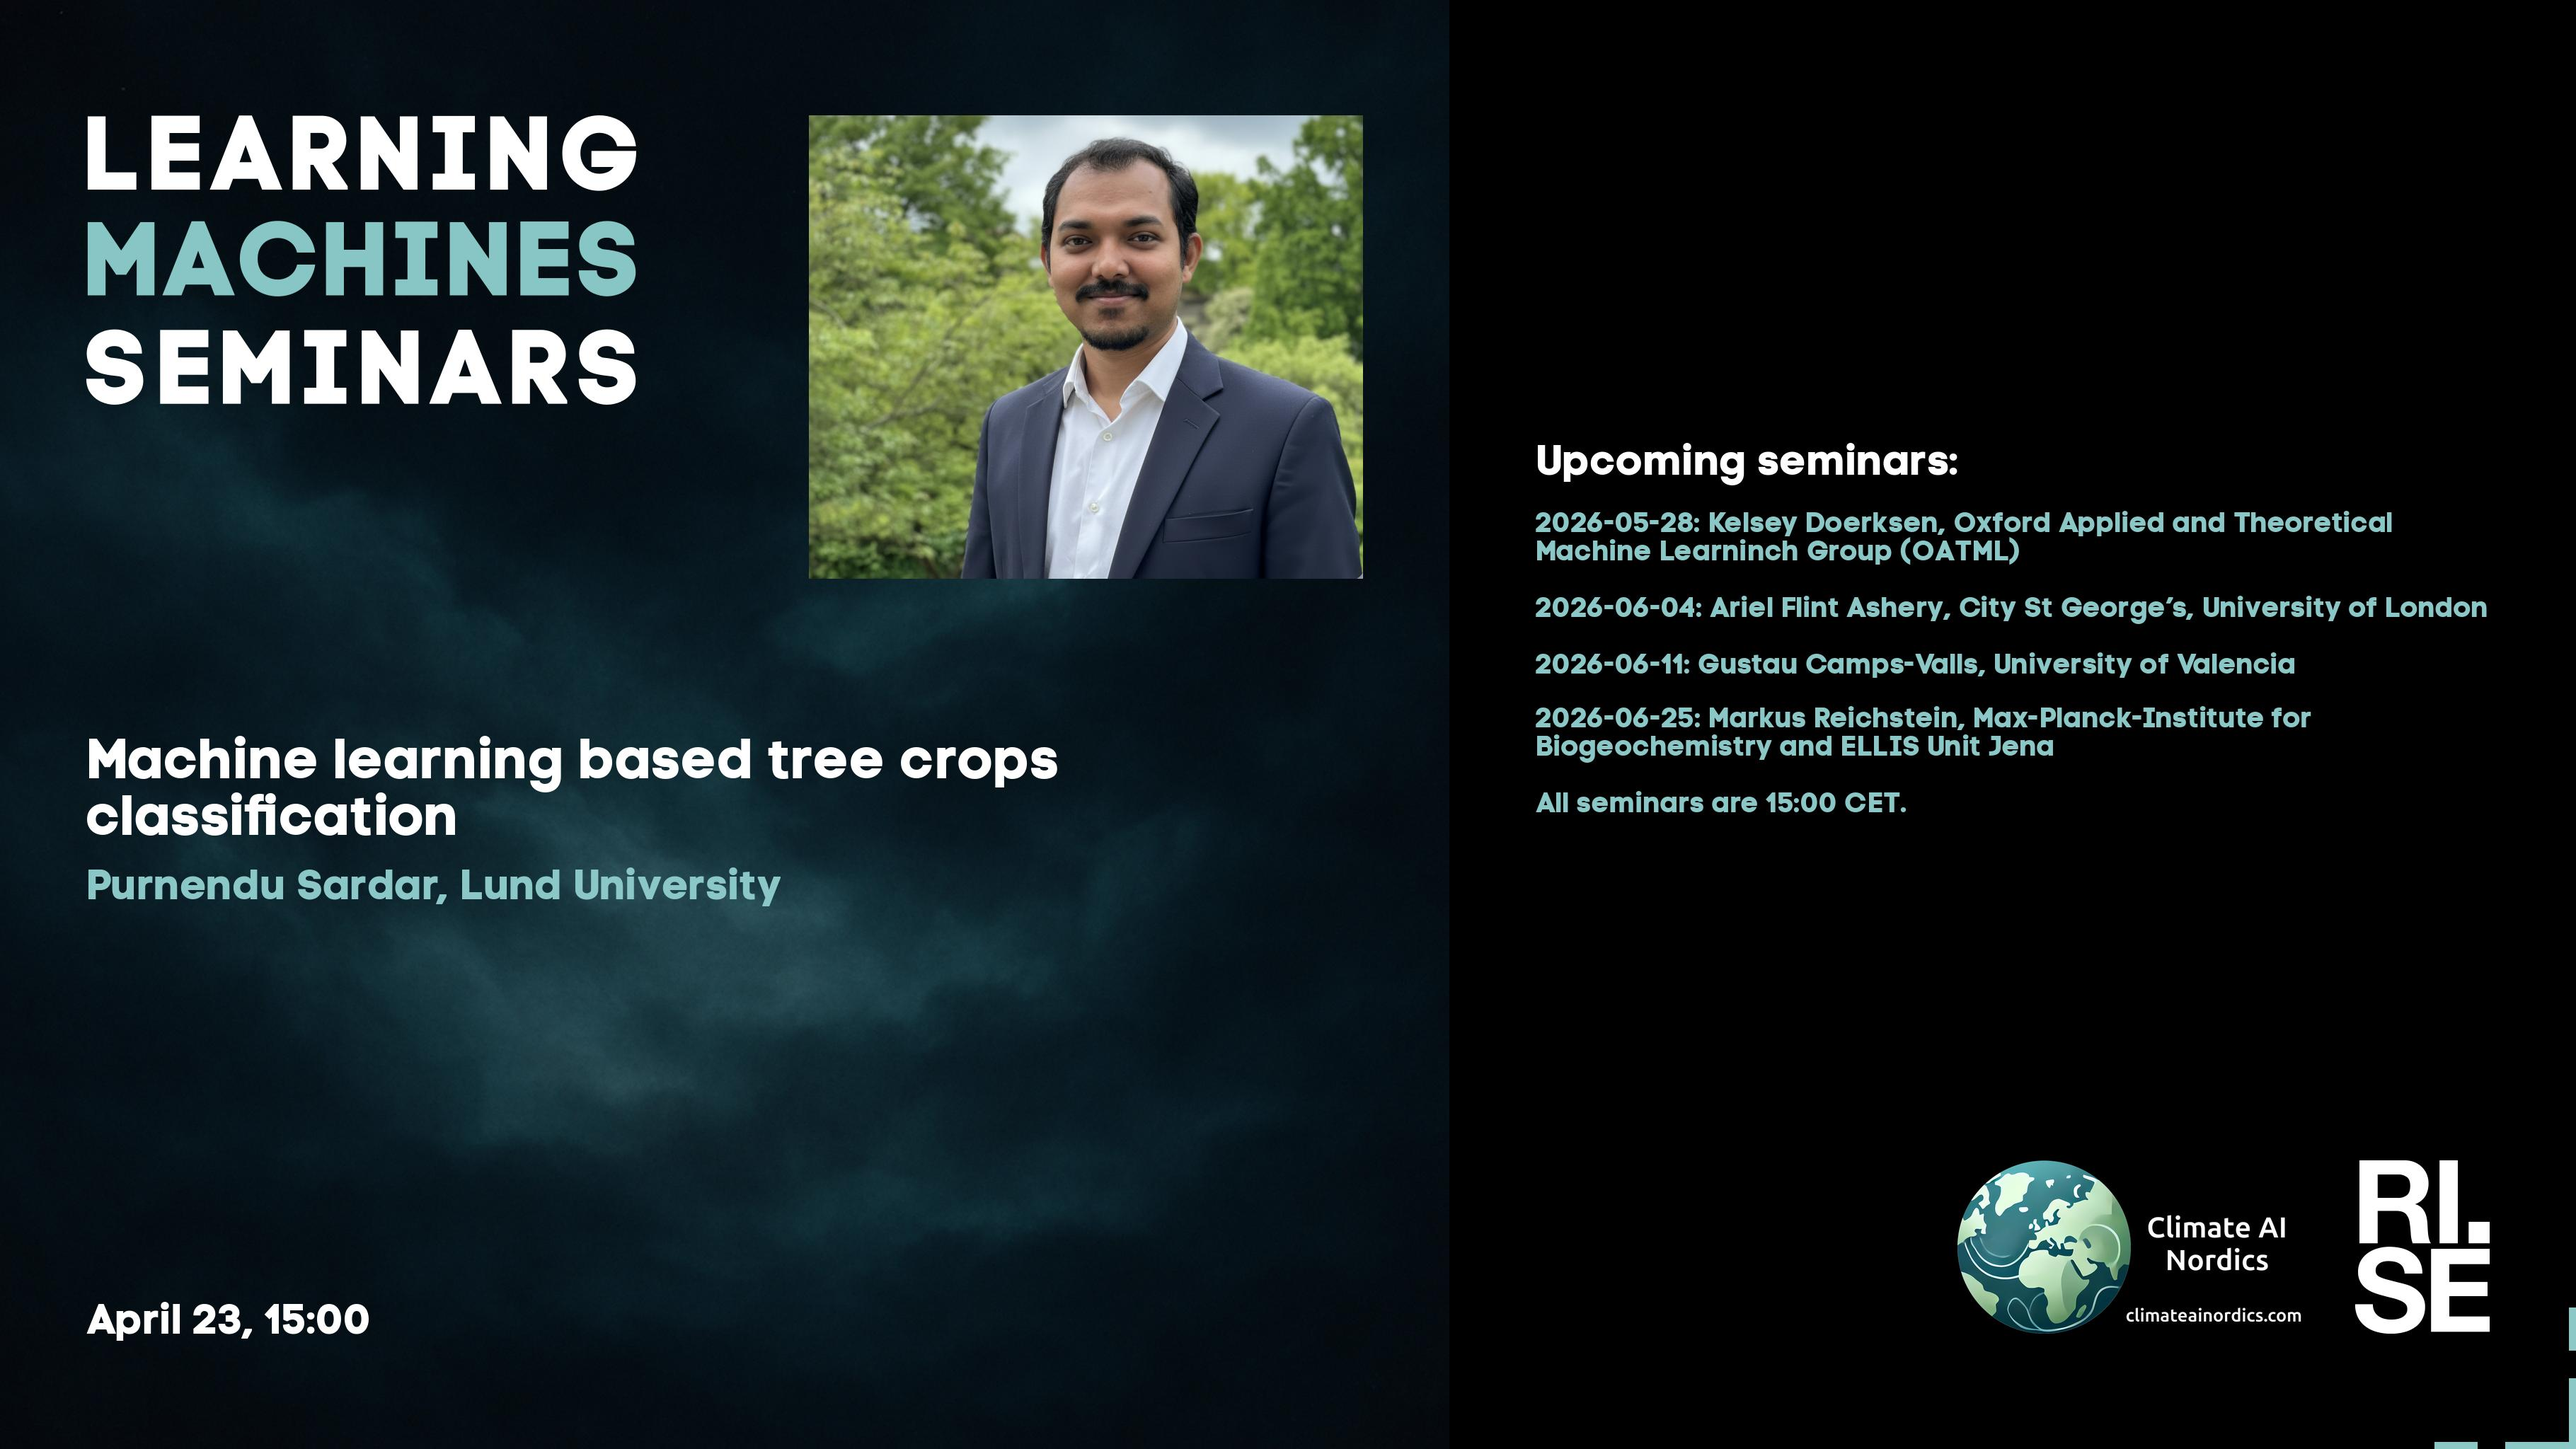
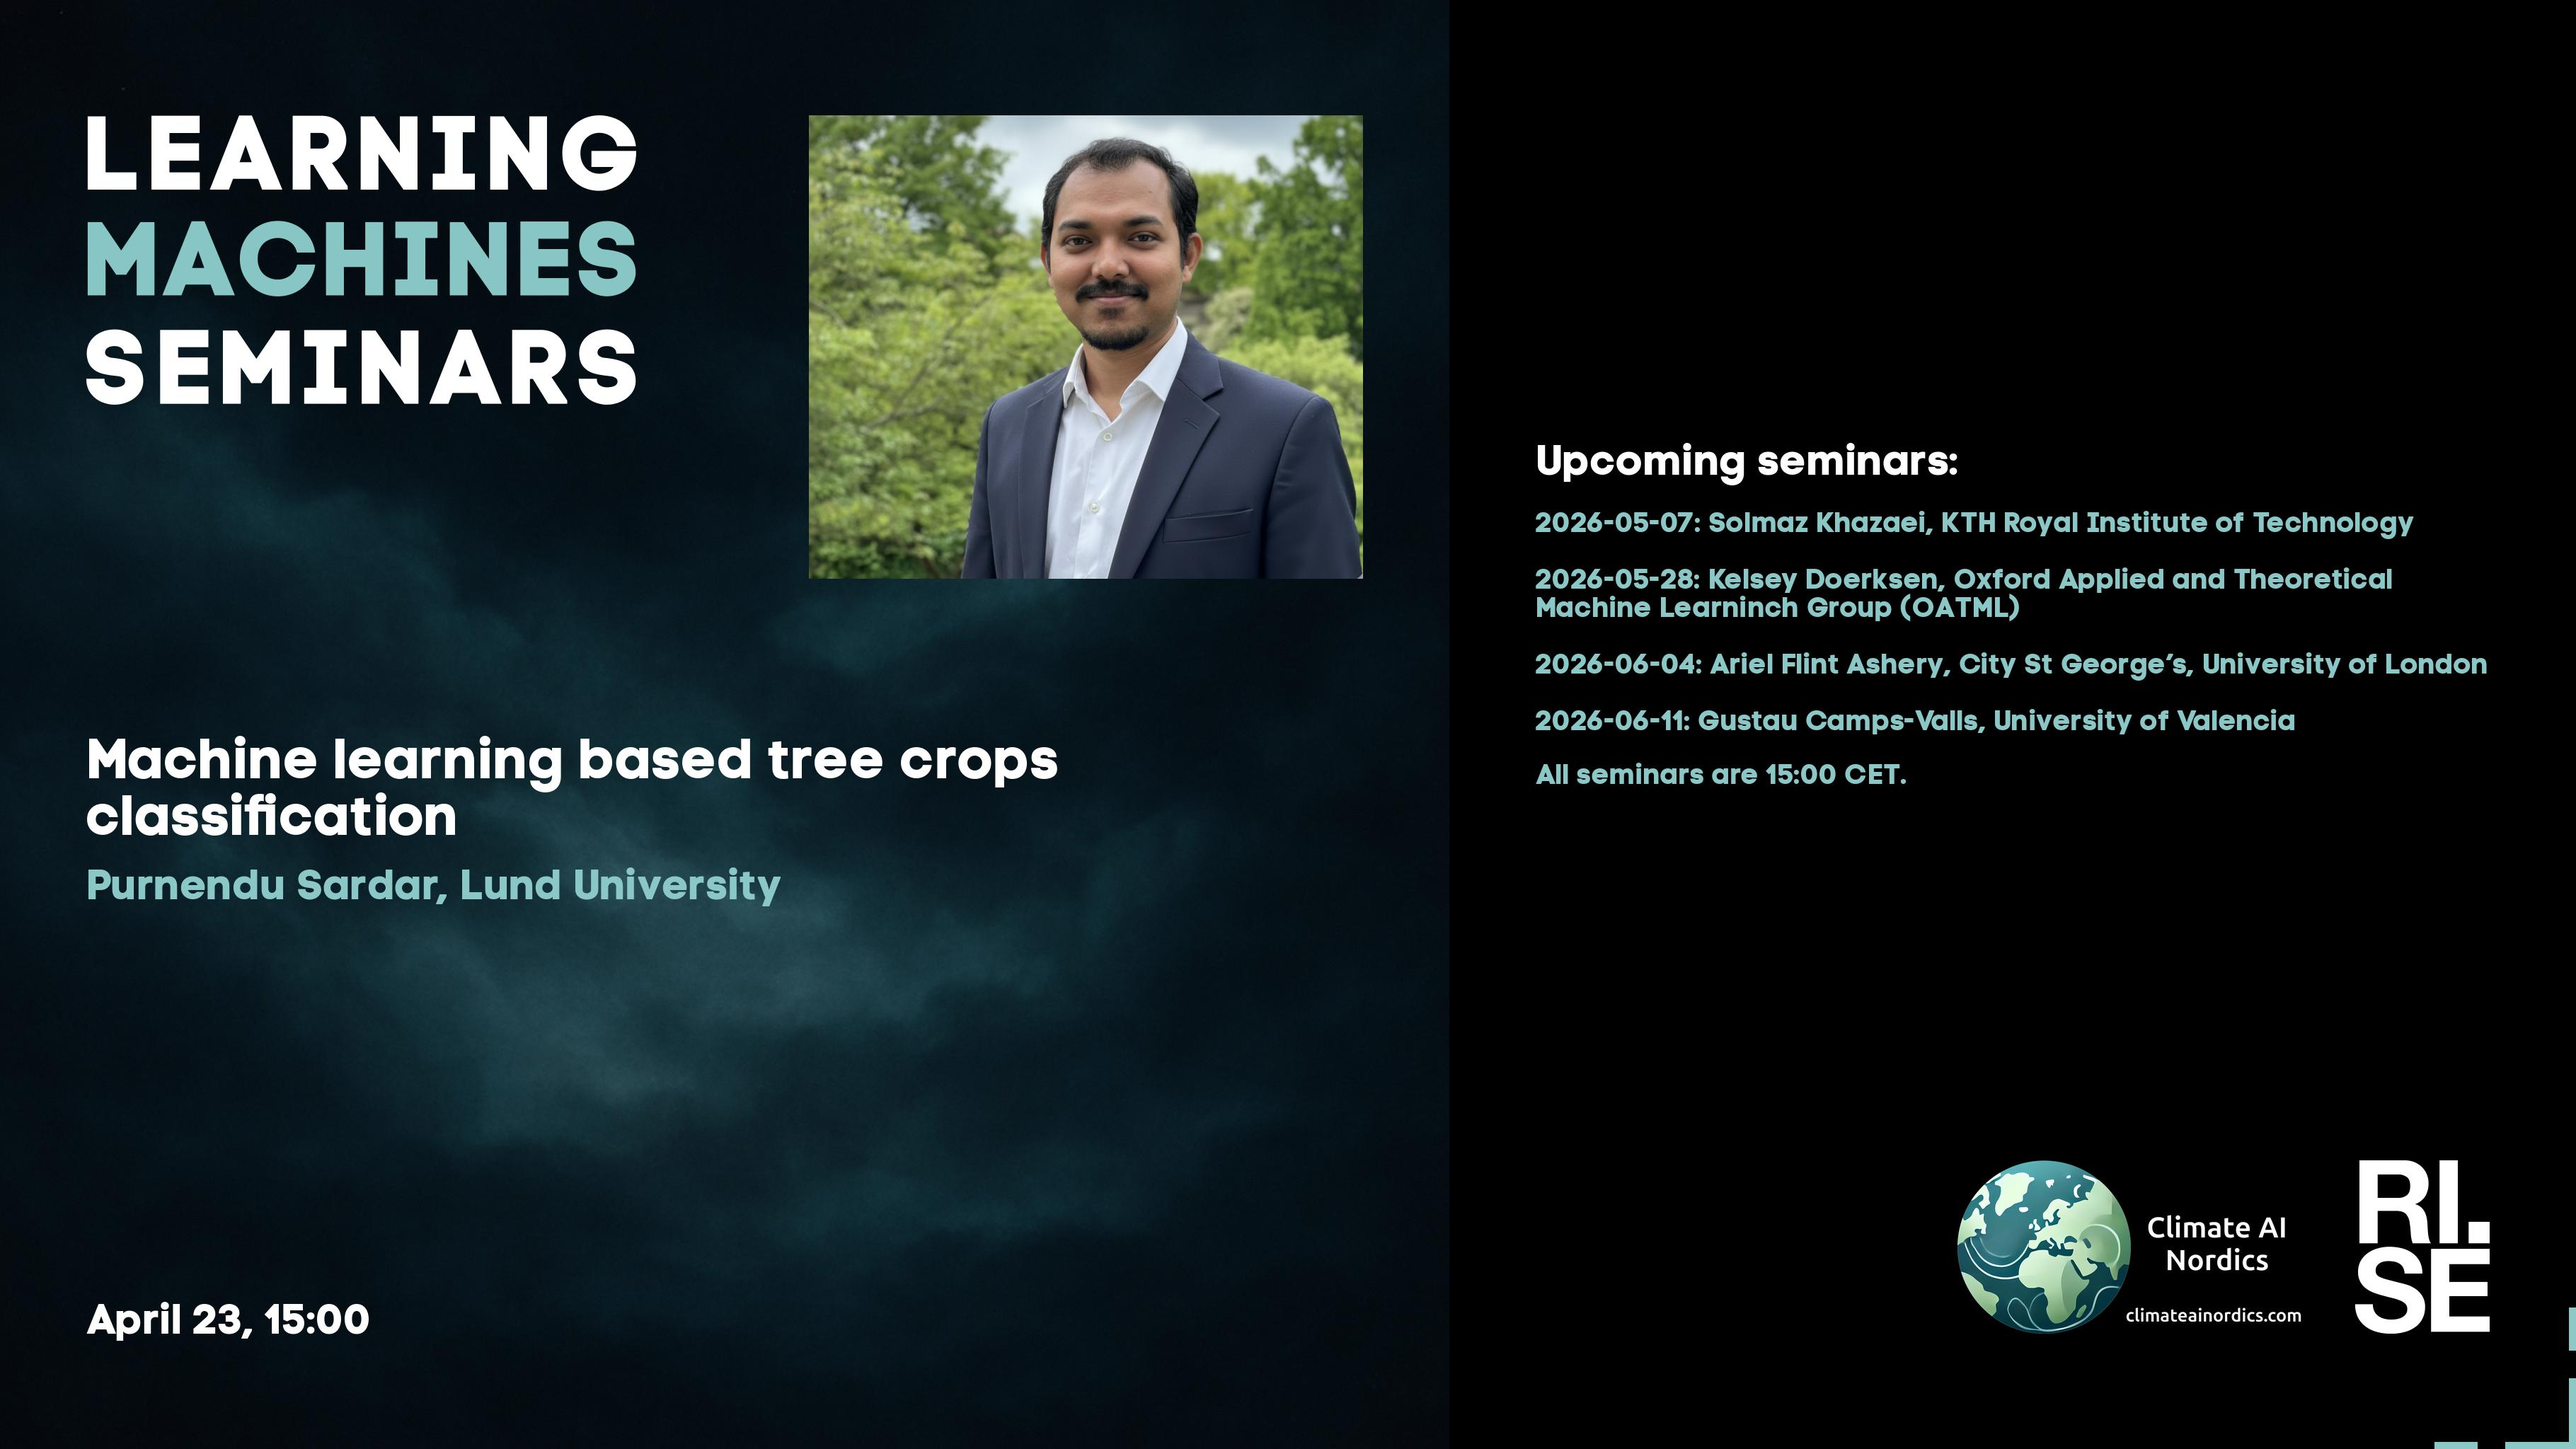
Updated plan on web site.

Changed region(s): [[0.5898, 0.3438, 0.9624, 0.5625]]

diff --git a/lm/2026.md b/lm/2026.md
@@ -20,7 +20,7 @@ table {border-collapse: collapse;}
 | <span style="color:red"> 2026-04-16 </span> | <span style="color:red"> CS Open House </span> | <span style="color:red">  </span> | <span style="color:red">  ---  ---  </span> | <span style="color:red">  </span> | <span style="color:red">  </span> | <span style="color:red"> CANCELLED </span> |
 |  2026-04-23  |  [Purnendu Sardar, Lund University](2026-04-23.md)  |  [photo](2026-04-23-photo-purnendu-sardar.png)  |  [social media bg ](2026-04-23-social-media-bg-purnendu-sardar.jpg) --- [social media photo ](2026-04-23-social-media-photo-purnendu-sardar.jpg) --- [social media 169 ](2026-04-23-social-media-169-purnendu-sardar.jpg)  |  [meeting backdrop ](2026-04-23-meeting-backdrop-purnendu-sardar.jpg)  |  [youtube thumbnail ](2026-04-23-youtube-thumbnail-purnendu-sardar.jpg)  |  STABP  |
 | <span style="color:red"> 2026-04-30 </span> | <span style="color:red"> Walispurgis eve </span> | <span style="color:red">  </span> | <span style="color:red">  ---  ---  </span> | <span style="color:red">  </span> | <span style="color:red">  </span> | <span style="color:red"> CANCELLED </span> |
-| <span style="color:grey"> 2026-05-07 </span> | <span style="color:grey"> Solmaz K. ? </span> | <span style="color:grey">  </span> | <span style="color:grey">  ---  ---  </span> | <span style="color:grey">  </span> | <span style="color:grey">  </span> | <span style="color:grey"> S~~TABP~~ </span> |
+|  2026-05-07  |  [Solmaz Khazaei, KTH Royal Institute of Technology](2026-05-07.md)  |    |  [social media bg ](2026-05-07-social-media-bg-solmaz-khazaei.jpg) --- [social media photo ](2026-05-07-social-media-photo-solmaz-khazaei.jpg) --- [social media 169 ](2026-05-07-social-media-169-solmaz-khazaei.jpg)  |  [meeting backdrop ](2026-05-07-meeting-backdrop-solmaz-khazaei.jpg)  |  [youtube thumbnail ](2026-05-07-youtube-thumbnail-solmaz-khazaei.jpg)  |  S~~TABP~~  |
 | <span style="color:red"> 2026-05-14 </span> | <span style="color:red"> Ascension day </span> | <span style="color:red">  </span> | <span style="color:red">  ---  ---  </span> | <span style="color:red">  </span> | <span style="color:red">  </span> | <span style="color:red"> CANCELLED </span> |
 | <span style="color:red"> 2026-05-21 </span> | <span style="color:red"> Swedish climate symposium, affilitation </span> | <span style="color:red">  </span> | <span style="color:red">  ---  ---  </span> | <span style="color:red">  </span> | <span style="color:red">  </span> | <span style="color:red"> CANCELLED </span> |
 |  2026-05-28  |  [Kelsey Doerksen, Oxford Applied and Theoretical Machine Learninch Group (OATML)](2026-05-28.md)  |    |  [social media bg ](2026-05-28-social-media-bg-kelsey-doerksen.jpg) --- [social media photo ](2026-05-28-social-media-photo-kelsey-doerksen.jpg) --- [social media 169 ](2026-05-28-social-media-169-kelsey-doerksen.jpg)  |  [meeting backdrop ](2026-05-28-meeting-backdrop-kelsey-doerksen.jpg)  |  [youtube thumbnail ](2026-05-28-youtube-thumbnail-kelsey-doerksen.jpg)  |  S~~TABP~~  |

diff --git a/lm/index.md b/lm/index.md
@@ -20,7 +20,7 @@ table {border-collapse: collapse;}
 | <span style="color:red"> 2026-04-16 </span> | <span style="color:red"> CS Open House </span> | <span style="color:red">  </span> | <span style="color:red">  ---  ---  </span> | <span style="color:red">  </span> | <span style="color:red">  </span> | <span style="color:red"> CANCELLED </span> |
 |  2026-04-23  |  [Purnendu Sardar, Lund University](2026-04-23.md)  |  [photo](2026-04-23-photo-purnendu-sardar.png)  |  [social media bg ](2026-04-23-social-media-bg-purnendu-sardar.jpg) --- [social media photo ](2026-04-23-social-media-photo-purnendu-sardar.jpg) --- [social media 169 ](2026-04-23-social-media-169-purnendu-sardar.jpg)  |  [meeting backdrop ](2026-04-23-meeting-backdrop-purnendu-sardar.jpg)  |  [youtube thumbnail ](2026-04-23-youtube-thumbnail-purnendu-sardar.jpg)  |  STABP  |
 | <span style="color:red"> 2026-04-30 </span> | <span style="color:red"> Walispurgis eve </span> | <span style="color:red">  </span> | <span style="color:red">  ---  ---  </span> | <span style="color:red">  </span> | <span style="color:red">  </span> | <span style="color:red"> CANCELLED </span> |
-| <span style="color:grey"> 2026-05-07 </span> | <span style="color:grey"> Solmaz K. ? </span> | <span style="color:grey">  </span> | <span style="color:grey">  ---  ---  </span> | <span style="color:grey">  </span> | <span style="color:grey">  </span> | <span style="color:grey"> S~~TABP~~ </span> |
+|  2026-05-07  |  [Solmaz Khazaei, KTH Royal Institute of Technology](2026-05-07.md)  |    |  [social media bg ](2026-05-07-social-media-bg-solmaz-khazaei.jpg) --- [social media photo ](2026-05-07-social-media-photo-solmaz-khazaei.jpg) --- [social media 169 ](2026-05-07-social-media-169-solmaz-khazaei.jpg)  |  [meeting backdrop ](2026-05-07-meeting-backdrop-solmaz-khazaei.jpg)  |  [youtube thumbnail ](2026-05-07-youtube-thumbnail-solmaz-khazaei.jpg)  |  S~~TABP~~  |
 | <span style="color:red"> 2026-05-14 </span> | <span style="color:red"> Ascension day </span> | <span style="color:red">  </span> | <span style="color:red">  ---  ---  </span> | <span style="color:red">  </span> | <span style="color:red">  </span> | <span style="color:red"> CANCELLED </span> |
 | <span style="color:red"> 2026-05-21 </span> | <span style="color:red"> Swedish climate symposium, affilitation </span> | <span style="color:red">  </span> | <span style="color:red">  ---  ---  </span> | <span style="color:red">  </span> | <span style="color:red">  </span> | <span style="color:red"> CANCELLED </span> |
 |  2026-05-28  |  [Kelsey Doerksen, Oxford Applied and Theoretical Machine Learninch Group (OATML)](2026-05-28.md)  |    |  [social media bg ](2026-05-28-social-media-bg-kelsey-doerksen.jpg) --- [social media photo ](2026-05-28-social-media-photo-kelsey-doerksen.jpg) --- [social media 169 ](2026-05-28-social-media-169-kelsey-doerksen.jpg)  |  [meeting backdrop ](2026-05-28-meeting-backdrop-kelsey-doerksen.jpg)  |  [youtube thumbnail ](2026-05-28-youtube-thumbnail-kelsey-doerksen.jpg)  |  S~~TABP~~  |

diff --git a/lm/statistics-2026.md b/lm/statistics-2026.md
@@ -10,11 +10,11 @@ title: Learning Machines Statistics 2026
 
 
 
-## 10 speakers
+## 11 speakers
 
-Ariel Flint Ashery, Gustau Camps-Valls, Isabelle Tingzon, Jeppe Rasmussen, Kelsey Doerksen, Markus Reichstein, Nita Mulliqi, Pablo Villanueva Perez, Purnendu Sardar, Sanja Karilanova
+Ariel Flint Ashery, Gustau Camps-Valls, Isabelle Tingzon, Jeppe Rasmussen, Kelsey Doerksen, Markus Reichstein, Nita Mulliqi, Pablo Villanueva Perez, Purnendu Sardar, Sanja Karilanova, Solmaz Khazaei
 
-## 9 affiliations
+## 10 affiliations
 
-City St George’s, University of London, Karolinska Institute, Lund University, Max-Planck-Institute for Biogeochemistry and ELLIS Unit Jena, Oxford Applied and Theoretical Machine Learninch Group (OATML), RISE Research Institutes of Sweden, University of Copenhagen, University of Valencia, Uppsala University
+City St George’s, University of London, KTH Royal Institute of Technology, Karolinska Institute, Lund University, Max-Planck-Institute for Biogeochemistry and ELLIS Unit Jena, Oxford Applied and Theoretical Machine Learninch Group (OATML), RISE Research Institutes of Sweden, University of Copenhagen, University of Valencia, Uppsala University
 

diff --git a/lm/2026-05-07.md b/lm/2026-05-07.md
@@ -1,0 +1,36 @@
+---
+layout: default
+metatags: "<meta name=\"robots\" content=\"noindex,nofollow\" />"
+---
+<img src="/lm/2026-05-07-social-media-169-solmaz-khazaei.jpg" />
+ 
+Welcome to this week's Learning Machines seminar.
+
+**Title:** N/A
+
+**Speaker:** Solmaz Khazaei, KTH Royal Institute of Technology
+
+**Abstract:** N/A
+
+**About the speaker:** N/A
+
+**Location:** This is an online seminar. Connect using Zoom.
+
+**Date:** 2026-05-07 15:00
+
+
+
+**Upcoming seminars:**
+
+* 2026-05-28: Kelsey Doerksen, Oxford Applied and Theoretical Machine Learninch Group (OATML)
+* 2026-06-04: Ariel Flint Ashery, City St George’s, University of London
+* 2026-06-11: Gustau Camps-Valls, University of Valencia
+* 2026-06-25: Markus Reichstein, Max-Planck-Institute for Biogeochemistry and ELLIS Unit Jena
+* All seminars are 15:00 CET.
+
+More information and coming seminars: [https://ri.se/lm-sem](https://ri.se/lm-sem)
+
+-- The Learning Machines Team
+
+**Zoom link:** [N/A](N/A)
+

diff --git a/lm/2026-04-23.md b/lm/2026-04-23.md
@@ -34,10 +34,10 @@ This seminar will have an in-person presence at the RISE office in Lund, located
 
 **Upcoming seminars:**
 
+* 2026-05-07: Solmaz Khazaei, KTH Royal Institute of Technology
 * 2026-05-28: Kelsey Doerksen, Oxford Applied and Theoretical Machine Learninch Group (OATML)
 * 2026-06-04: Ariel Flint Ashery, City St George’s, University of London
 * 2026-06-11: Gustau Camps-Valls, University of Valencia
-* 2026-06-25: Markus Reichstein, Max-Planck-Institute for Biogeochemistry and ELLIS Unit Jena
 * All seminars are 15:00 CET.
 
 More information and coming seminars: [https://ri.se/lm-sem](https://ri.se/lm-sem)
